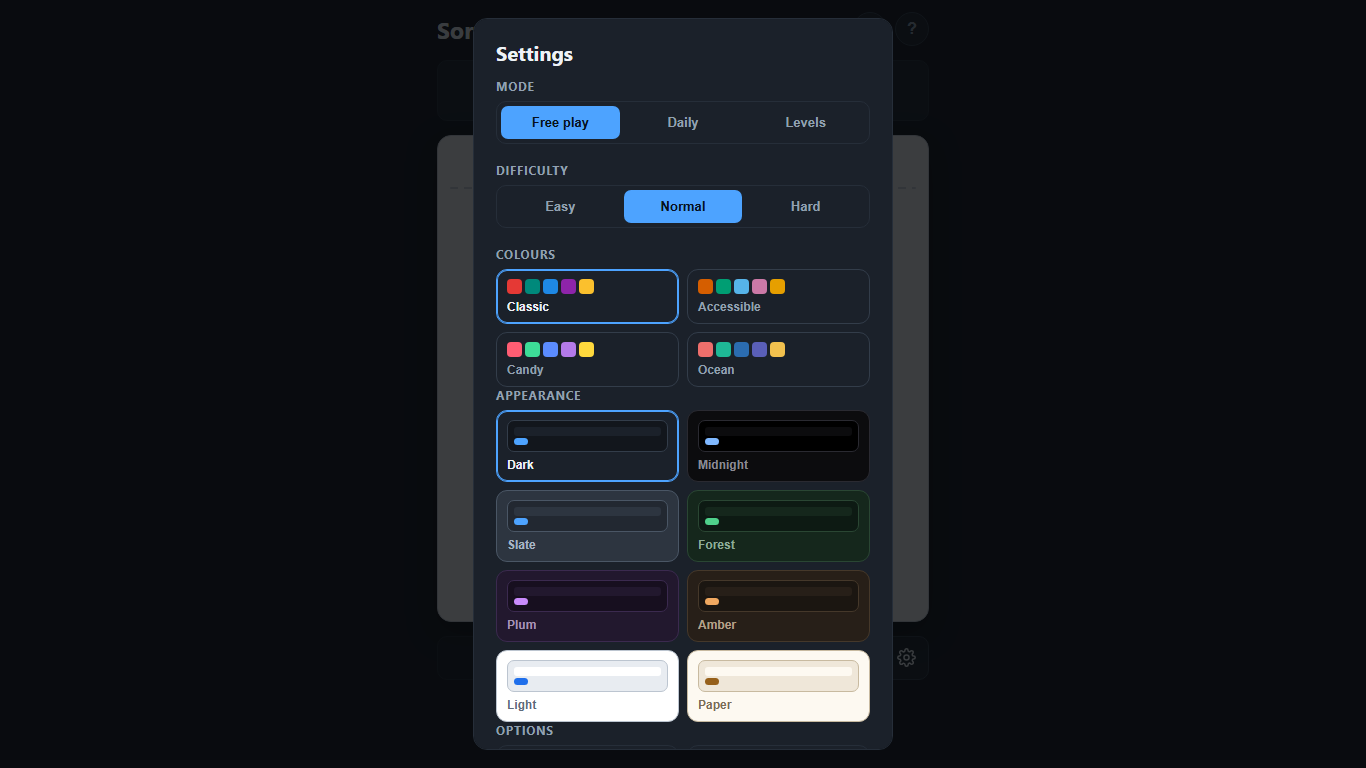
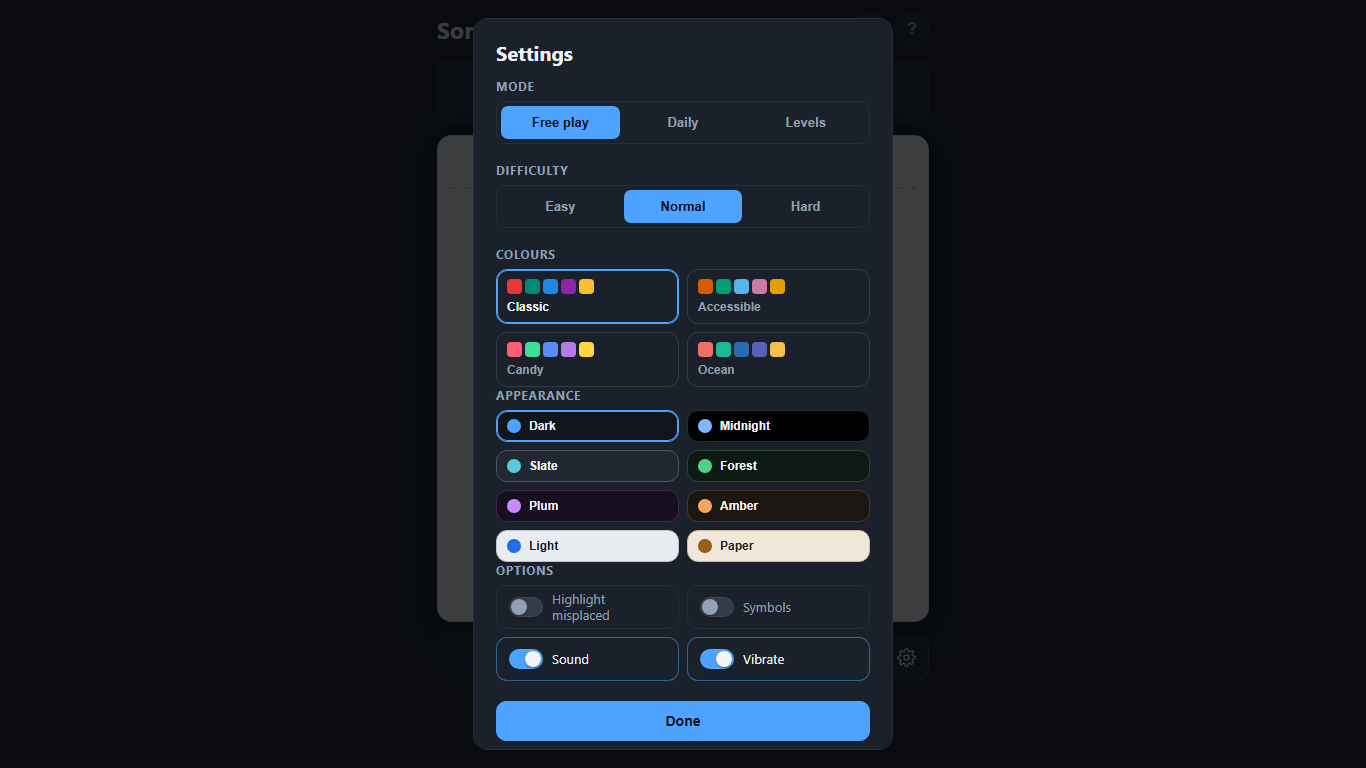
Fix theme reset on refresh and compact the appearance picker
Renaming the sand theme to amber broke everyone who had it selected:
loadPrefs validates the saved id against APPEARANCES and silently falls
back to dark, so the theme appeared to reset on every refresh. Added an
APPEARANCE_ALIASES forwarding table so retired ids keep resolving.

The picker swatches were ~90px cards. The button itself now carries
data-appearance, so the row *is* the preview - background, label and
accent dot all resolve to the theme it offers - in about a third of the
height. The whole settings modal now fits without scrolling.

Rendering that revealed two bugs the code hid. Slate defined no --accent,
so nested inside another theme its dot borrowed that theme's accent; it
now has its own cyan, which also separates it from Dark. And the switch
knob used --text, which inverts, so it turned near-black on light themes
while its track stayed coloured; it now uses --frame.

Tests: an integration test for the alias migration and the
genuinely-unknown case, and a layout test comparing every theme nested
inside another against the same theme at root, which names the missing
token. Both verified to fail when the fix is reverted. 135 passing.

Changed region(s): [[0.3382, 0.5312, 0.6457, 0.9688]]

diff --git a/styles.css b/styles.css
@@ -69,6 +69,7 @@
   --line-strong: #2a2a31;
   --line-bright: #3d3d46;
   --board-shadow: 0 10px 30px rgba(0, 0, 0, 0.7);
+  --wash: rgba(255, 255, 255, 0.06);
 }
 
 [data-appearance="slate"] {
@@ -78,10 +79,13 @@
   --text: #f4f7fa;
   --text-body: #cdd7e1;
   --text-dim: #a8b6c4;
-  --accent-soft: #2c4257;
+  --accent: #5cc9d6;
+  --accent-soft: #1d4650;
+  --on-accent: #04171b;
   --line: #3a4552;
   --line-strong: #4a5665;
   --line-bright: #5e6b7b;
+  --wash: rgba(255, 255, 255, 0.06);
 }
 
 [data-appearance="forest"] {
@@ -97,6 +101,7 @@
   --line: #1d3325;
   --line-strong: #2a4633;
   --line-bright: #3a5c44;
+  --wash: rgba(255, 255, 255, 0.06);
 }
 
 [data-appearance="plum"] {
@@ -112,6 +117,7 @@
   --line: #2b1e3a;
   --line-strong: #3b2a4f;
   --line-bright: #4e3a66;
+  --wash: rgba(255, 255, 255, 0.06);
 }
 
 [data-appearance="amber"] {
@@ -127,6 +133,7 @@
   --line: #33291f;
   --line-strong: #45382a;
   --line-bright: #5c4b38;
+  --wash: rgba(255, 255, 255, 0.06);
 }
 
 [data-appearance="light"] {
@@ -618,7 +625,7 @@ body {
 .toggle-text { line-height: 1.2; }
 
 .toggle input:checked + .switch { background: var(--accent); }
-.toggle input:checked + .switch::after { transform: translateX(14px); background: var(--text); }
+.toggle input:checked + .switch::after { transform: translateX(14px); background: var(--frame); }
 
 .toggle:has(input:checked) { border-color: rgba(77, 163, 255, 0.5); color: var(--text); }
 
@@ -852,37 +859,30 @@ body {
   font-weight: 600;
 }
 
-/* Each preview re-scopes the theme variables onto itself, so it paints in the
-   theme it is offering while the card around it stays in the current one. */
-.theme-preview {
-  position: relative;
-  display: block;
-  width: 100%;
-  height: 32px;
-  border-radius: 7px;
+/* Each theme swatch re-scopes the theme variables onto itself, so the row is
+   its own preview - background, text and accent all come from the theme it is
+   offering while the modal around it stays in the current one. */
+.swatch-theme {
+  flex-direction: row;
+  align-items: center;
+  gap: 8px;
+  padding: 8px 10px;
   background: var(--bg);
-  border: 1px solid var(--line-strong);
-  overflow: hidden;
+  border-color: var(--line-strong);
+  color: var(--text);
 }
 
-.theme-surface {
-  position: absolute;
-  left: 6px;
-  right: 6px;
-  top: 6px;
-  height: 9px;
-  border-radius: 3px;
-  background: var(--bg-soft);
+.swatch-theme .swatch-name {
+  color: var(--text);
 }
 
 .theme-dot {
-  position: absolute;
-  left: 6px;
-  bottom: 6px;
+  flex: none;
   width: 14px;
-  height: 7px;
-  border-radius: 4px;
+  height: 14px;
+  border-radius: 50%;
   background: var(--accent);
+  box-shadow: inset 0 0 0 1px var(--wash);
 }
 
 /* ---------- stats ---------- */

diff --git a/game.js b/game.js
@@ -73,6 +73,11 @@
     paper:    'Paper'
   };
 
+  // Themes renamed after release. A saved id that no longer exists fails the
+  // lookup in loadPrefs and silently drops the user back to dark, so anything
+  // renamed has to keep a forwarding entry here.
+  const APPEARANCE_ALIASES = { sand: 'amber' };
+
   const COLS = 5;                   // one column per colour
   const STORAGE_KEY = 'bcp.v1';
   const SCRAMBLE_PER_CELL = 24;     // scramble slides, scaled by board size
@@ -336,7 +341,8 @@
     el.haptics.checked = store.haptics !== false;
     if (store.rows && [4, 5, 6].includes(store.rows)) state.rows = store.rows;
     if (store.palette && PALETTES[store.palette]) state.palette = store.palette;
-    if (store.appearance && APPEARANCES[store.appearance]) state.appearance = store.appearance;
+    const saved = APPEARANCE_ALIASES[store.appearance] || store.appearance;
+    if (saved && APPEARANCES[saved]) state.appearance = saved;
     applyTheme();
     applyFxPrefs();
   }
@@ -1143,25 +1149,19 @@
     for (const [id, name] of Object.entries(APPEARANCES)) {
       const btn = document.createElement('button');
       btn.type = 'button';
-      btn.className = 'swatch' + (id === state.appearance ? ' is-active' : '');
+      btn.className = 'swatch swatch-theme' + (id === state.appearance ? ' is-active' : '');
       btn.dataset.appearance = id;
       btn.setAttribute('aria-pressed', String(id === state.appearance));
       btn.title = name;
 
-      const preview = document.createElement('span');
-      preview.className = 'theme-preview';
-      preview.dataset.appearance = id;
-      const surface = document.createElement('span');
-      surface.className = 'theme-surface';
       const dot = document.createElement('span');
       dot.className = 'theme-dot';
-      preview.append(surface, dot);
 
       const label = document.createElement('span');
       label.className = 'swatch-name';
       label.textContent = name;
 
-      btn.append(preview, label);
+      btn.append(dot, label);
       btn.addEventListener('click', () => setAppearance(id));
       el.appearance.appendChild(btn);
     }

diff --git a/sw.js b/sw.js
@@ -1,4 +1,4 @@
-const CACHE = 'bcp-v19';
+const CACHE = 'bcp-v20';
 
 const ASSETS = [
   './',

diff --git a/AGENTS.md b/AGENTS.md
@@ -169,6 +169,23 @@ passed on every isolated re-run. If it fails alone, believe it. If it fails only
   dark preview would inherit the *current* theme and preview the wrong thing. `:root`
   keeps the palette so the first paint is right before JS runs; the duplicate block makes
   the preview right. Both are load-bearing.
+- **A theme block must define every colour token it wants, even ones `:root` already
+  has.** Because previews are nested, an undefined token does *not* fall back to `:root` —
+  it inherits from the surrounding theme, so the swatch shows a colour belonging to a
+  different theme. Slate shipped with no `--accent`: correct at root, wrong in every
+  preview. `a theme previewed inside another theme still looks like itself` in
+  `tests/layout.test.mjs` compares each theme nested vs. at root and names the missing
+  token. Geometry tokens (`--radius`, `--gutter`, `--cell`, `--slot`) and the deliberately
+  theme-independent ones (`--gold`, `--danger`) are correctly left undefined.
+- **Never rename a theme id that has shipped.** `loadPrefs` validates the saved id against
+  `APPEARANCES` and silently falls back to dark, so everyone using that theme loses it on
+  their next refresh with no clue why. Renaming `sand` → `amber` did exactly this. Add a
+  forwarding entry to `APPEARANCE_ALIASES` in `game.js` instead; there are tests covering
+  both the alias and the genuinely-unknown case.
+- **Anything drawn *on* the accent must not use `--text`.** `--text` inverts with the
+  theme, so a switch knob that is white on dark themes turns near-black on light ones
+  while its track stays coloured. Use `--frame` (near-white in every theme) or
+  `--on-accent`.
 - **Any new colour must be a token, not a literal.** Four literals are deliberate
   exceptions — the white tile outline, the tile label `rgba(255,255,255,0.92)`, the
   win-banner green and the star gold. All four sit on saturated tiles or coloured banners
